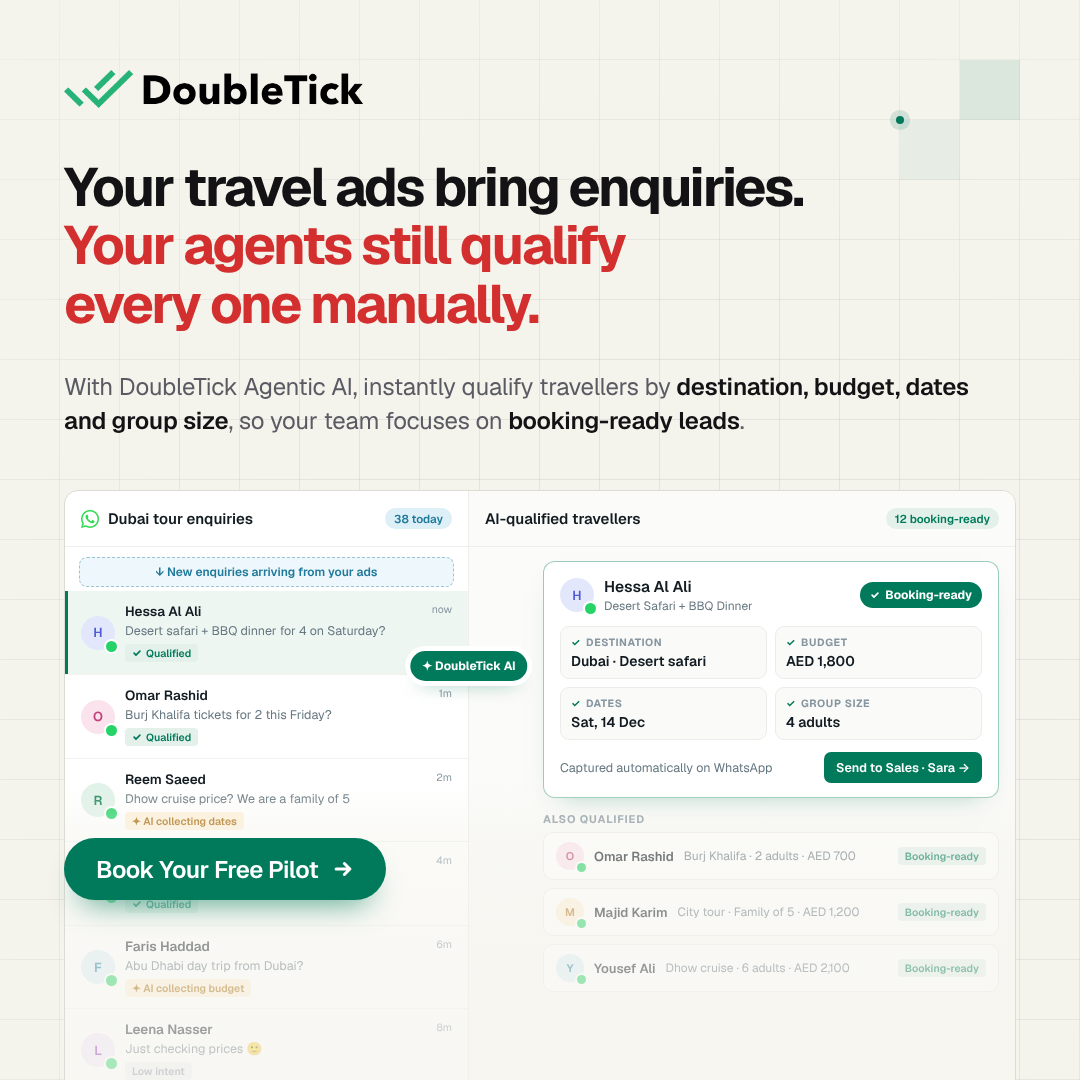
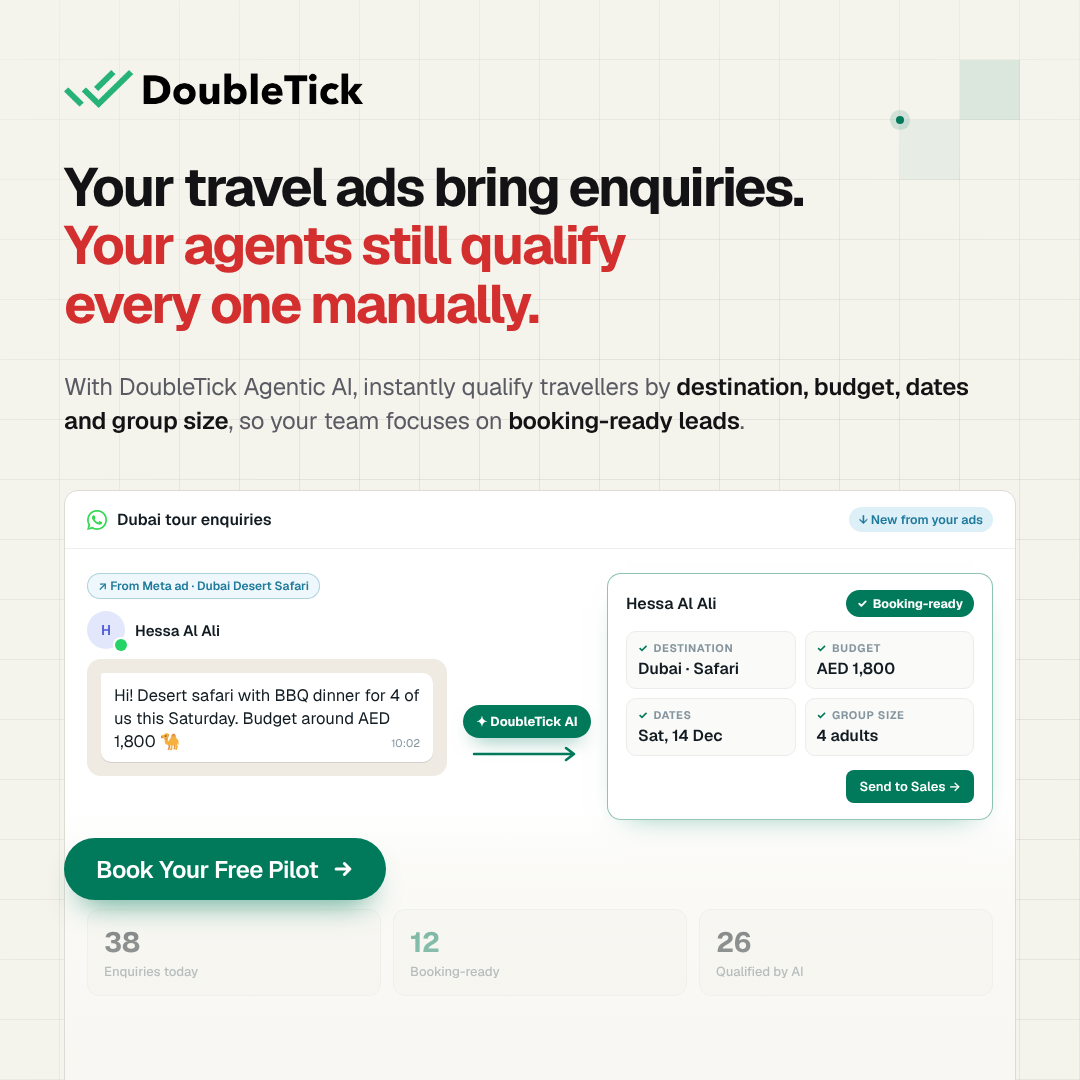
feat(ads): simplify AI qualification visual to one enquiry -> AI -> qualified card
Claude-Session: https://claude.ai/code/session_01U68wzeZAut9FRgfZMxNXRM

diff --git a/ads/doubletick-ai-qualify/index.html b/ads/doubletick-ai-qualify/index.html
@@ -23,44 +23,35 @@
   .sub { position: absolute; top: 370px; left: 64px; width: 930px; font-size: 24px; line-height: 1.4; color: var(--ink-2); letter-spacing: -0.01em; }
   .sub b { color: var(--ink); font-weight: 600; }
 
-  /* AI qualification board */
+  /* AI qualification: one enquiry -> AI -> one qualified card */
   #aq { z-index: 1; left: 64px; top: 490px; width: 952px; height: 620px; border-radius: 14px; background: #fff; border: 1px solid #DCDBD4; overflow: hidden; color: #111B21; }
-  #aq::after { content: ""; position: absolute; inset: 0; pointer-events: none; background: linear-gradient(to bottom, rgba(244,243,236,0) 0%, rgba(244,243,236,0) 47%, rgba(244,243,236,0.4) 55%, rgba(244,243,236,0.55) 70%, rgba(244,243,236,0.66) 100%); }
-  .pane { position: absolute; top: 0; bottom: 0; }
-  #inq { left: 0; width: 404px; border-right: 1px solid #EEEEEA; }
-  #qual { left: 404px; right: 0; background: #FBFBF9; }
-  .ph { height: 56px; display: flex; align-items: center; gap: 9px; padding: 0 16px; border-bottom: 1px solid #EEEEEA; font-size: 15px; font-weight: 600; }
-  .ph .cnt { margin-left: auto; font-size: 11.5px; font-weight: 600; padding: 3px 9px; border-radius: 999px; background: #E3F1EA; color: var(--green); }
-  .ph .cnt.b { background: #DDEFF7; color: #1F7A9C; }
-  .newin { margin: 10px 14px 4px; display: flex; align-items: center; justify-content: center; gap: 6px; font-size: 12px; font-weight: 600; color: #1F7A9C; background: #EEF7FB; border: 1px dashed rgba(31,122,156,0.4); border-radius: 8px; padding: 6px; }
-  .er { display: flex; gap: 10px; padding: 11px 16px; border-bottom: 1px solid #F2F2EF; align-items: center; }
-  .er.sel { background: #EEF6F2; box-shadow: inset 3px 0 0 var(--green); }
-  .av { position: relative; width: 34px; height: 34px; border-radius: 50%; display: grid; place-items: center; font-size: 13px; font-weight: 600; flex: none; }
-  .av::after { content: ""; position: absolute; right: -2px; bottom: -2px; width: 11px; height: 11px; border-radius: 50%; background: #25D366; box-shadow: 0 0 0 2px #fff; }
-  .er .b { flex: 1; min-width: 0; }
-  .er .n { display: flex; justify-content: space-between; font-size: 13.5px; font-weight: 600; } .er .n span:last-child { font-size: 10.5px; font-weight: 400; color: #8696A0; }
-  .er .m { margin-top: 2px; font-size: 12.5px; color: #667781; white-space: nowrap; overflow: hidden; text-overflow: ellipsis; }
-  .st { display: inline-flex; align-items: center; gap: 4px; margin-top: 5px; font-size: 10.5px; font-weight: 600; padding: 2px 7px; border-radius: 4px; }
-  .st.g { background: #E3F1EA; color: var(--green); } .st.a { background: #FFF1DA; color: #A86A0C; } .st.x { background: #F0F2F5; color: #8696A0; }
-  .aipill { position: absolute; left: 404px; top: 160px; transform: translateX(-50%); z-index: 3; display: inline-flex; align-items: center; gap: 6px; font-size: 12px; font-weight: 700; color: #fff; background: var(--green); padding: 7px 12px; border-radius: 999px; box-shadow: 0 0 0 5px #fff, 0 10px 20px -10px rgba(0,122,90,0.6); white-space: nowrap; }
-  .lead { margin: 14px 16px 0 74px; background: #fff; border: 1.5px solid rgba(0,122,90,0.4); border-radius: 12px; padding: 14px 16px; box-shadow: 0 12px 26px -18px rgba(0,122,90,0.5); }
-  .lead .lt { display: flex; align-items: center; gap: 10px; }
-  .lead .lt b { font-size: 15.5px; font-weight: 600; } .lead .lt small { display: block; font-size: 12px; color: #667781; margin-top: 1px; }
-  .badge { margin-left: auto; display: inline-flex; align-items: center; gap: 5px; font-size: 12px; font-weight: 700; color: #fff; background: var(--green); padding: 5px 10px; border-radius: 999px; }
-  .fields { margin-top: 12px; display: grid; grid-template-columns: 1fr 1fr; gap: 8px; }
-  .f { border: 1px solid #ECEDEA; background: #FAFAF8; border-radius: 9px; padding: 8px 10px; }
-  .f small { display: flex; align-items: center; gap: 5px; font-size: 10.5px; font-weight: 700; letter-spacing: 0.06em; color: #8696A0; }
-  .f b { display: block; margin-top: 3px; font-size: 14px; font-weight: 600; }
+  #aq::after { content: ""; position: absolute; inset: 0; pointer-events: none; background: linear-gradient(to bottom, rgba(244,243,236,0) 0%, rgba(244,243,236,0) 52%, rgba(244,243,236,0.4) 60%, rgba(244,243,236,0.55) 74%, rgba(244,243,236,0.66) 100%); }
+  .ph { height: 58px; display: flex; align-items: center; gap: 10px; padding: 0 22px; border-bottom: 1px solid #EEEEEA; font-size: 16px; font-weight: 600; }
+  .ph .cnt { margin-left: auto; font-size: 12.5px; font-weight: 600; padding: 4px 10px; border-radius: 999px; background: #DDEFF7; color: #1F7A9C; }
+  .chat { position: absolute; left: 22px; top: 82px; width: 360px; }
+  .src { display: inline-flex; align-items: center; gap: 6px; font-size: 12px; font-weight: 600; color: #1F7A9C; background: #EEF7FB; border: 1px solid rgba(31,122,156,0.3); padding: 4px 10px; border-radius: 999px; margin-bottom: 12px; }
+  .cust { display: flex; align-items: center; gap: 10px; margin-bottom: 10px; font-size: 15px; font-weight: 600; }
+  .av { position: relative; width: 38px; height: 38px; border-radius: 50%; display: grid; place-items: center; font-size: 14px; font-weight: 600; flex: none; background: #E3E7FB; color: #4F5BD5; }
+  .av::after { content: ""; position: absolute; right: -2px; bottom: -2px; width: 12px; height: 12px; border-radius: 50%; background: #25D366; box-shadow: 0 0 0 2px #fff; }
+  .bub { background: #EFEAE2; border-radius: 14px; padding: 14px; }
+  .msg { background: #fff; border-radius: 10px; border-top-left-radius: 2px; padding: 11px 13px 9px; font-size: 16.5px; line-height: 1.4; box-shadow: 0 1px 0.5px rgba(11,20,26,0.12); }
+  .msg .tm { float: right; margin: 6px 0 -3px 10px; font-size: 11px; color: #8696A0; }
+  .arrow { position: absolute; left: 396px; top: 214px; width: 132px; display: flex; flex-direction: column; align-items: center; gap: 8px; }
+  .arrow .pill { display: inline-flex; align-items: center; gap: 6px; font-size: 13px; font-weight: 700; color: #fff; background: var(--green); padding: 8px 13px; border-radius: 999px; white-space: nowrap; box-shadow: 0 10px 20px -10px rgba(0,122,90,0.6); }
+  .arrow svg { display: block; }
+  .lead { position: absolute; left: 542px; right: 22px; top: 82px; background: #fff; border: 1.5px solid rgba(0,122,90,0.45); border-radius: 14px; padding: 16px 18px; box-shadow: 0 14px 30px -20px rgba(0,122,90,0.55); }
+  .lead .lt { display: flex; align-items: center; gap: 10px; font-size: 16px; font-weight: 600; }
+  .badge { margin-left: auto; display: inline-flex; align-items: center; gap: 5px; font-size: 12.5px; font-weight: 700; color: #fff; background: var(--green); padding: 5px 11px; border-radius: 999px; }
+  .fields { margin-top: 14px; display: grid; grid-template-columns: 1fr 1fr; gap: 9px; }
+  .f { border: 1px solid #ECEDEA; background: #FAFAF8; border-radius: 10px; padding: 9px 11px; }
+  .f small { display: flex; align-items: center; gap: 5px; font-size: 11px; font-weight: 700; letter-spacing: 0.06em; color: #8696A0; }
   .f small i { font-style: normal; color: var(--green); }
-  .lead .as { margin-top: 12px; display: flex; align-items: center; justify-content: space-between; font-size: 12.5px; color: #667781; }
-  .lead .as span.btn2 { font-size: 12.5px; font-weight: 600; color: #fff; background: var(--green); padding: 7px 12px; border-radius: 7px; }
-  .ql { margin: 14px 16px 0 74px; }
-  .ql .h { font-size: 11px; font-weight: 700; letter-spacing: 0.08em; color: #8696A0; margin-bottom: 6px; }
-  .qr { display: flex; align-items: center; gap: 10px; background: #fff; border: 1px solid #ECEDEA; border-radius: 10px; padding: 9px 12px; margin-bottom: 8px; font-size: 13px; }
-  .qr .av { width: 28px; height: 28px; font-size: 11px; } .qr .av::after { width: 9px; height: 9px; }
-  .qr b { font-weight: 600; } .qr small { color: #667781; font-size: 12px; }
-  .qr .st { margin: 0 0 0 auto; }
-  .a1 { background: #E3E7FB; color: #4F5BD5; } .a2 { background: #FBE3EE; color: #C2407A; } .a3 { background: #E0F2E9; color: #1E8A5A; } .a4 { background: #FFF0D9; color: #B7791F; } .a5 { background: #F1E6FB; color: #8A2BC4; } .a6 { background: #DDEFF7; color: #1F7A9C; }
+  .f b { display: block; margin-top: 3px; font-size: 16px; font-weight: 600; }
+  .lead .go { margin-top: 14px; display: flex; justify-content: flex-end; }
+  .lead .go span { font-size: 13px; font-weight: 600; color: #fff; background: var(--green); padding: 8px 13px; border-radius: 8px; }
+  .stats { position: absolute; left: 22px; right: 22px; top: 418px; display: grid; grid-template-columns: repeat(3, 1fr); gap: 12px; }
+  .stats div { border: 1px solid #ECEDEA; border-radius: 12px; padding: 14px 16px; background: #FAFAF8; }
+  .stats b { display: block; font-size: 28px; font-weight: 700; letter-spacing: -0.02em; } .stats small { font-size: 13px; color: #667781; font-weight: 500; }
   .footer { position: absolute; left: 64px; bottom: 180px; z-index: 10; }
   .cta { display: inline-flex; align-items: center; gap: 14px; padding: 0 32px; height: 62px; border-radius: 999px; background: var(--green); color: #fff; font-weight: 600; font-size: 24px; letter-spacing: -0.02em; box-shadow: 0 18px 30px -16px rgba(0,122,90,0.7); }
   .headline br + .red { display: block; text-wrap: balance; }
@@ -80,21 +71,19 @@
 
   <!-- DoubleTick inbox: Sales, Operations and Support on one thread -->
   <div id="aq" class="abs">
-    <div class="pane" id="inq"><div class="ph"><img src="whatsapp-logo.png" alt="" style="width:18px;height:18px" />Dubai tour enquiries<span class="cnt b">38 today</span></div>
-      <div class="newin">↓ New enquiries arriving from your ads</div><div class="er sel"><span class="av a1">H</span><div class="b"><div class="n"><span>Hessa Al Ali</span><span>now</span></div><div class="m">Desert safari + BBQ dinner for 4 on Saturday?</div><span class="st g"><svg width="10" height="10" viewBox="0 0 24 24" fill="none" stroke="currentColor" stroke-width="4" stroke-linecap="round" stroke-linejoin="round"><path d="M5 12.5l4.5 4.5L19 7.5"/></svg> Qualified</span></div></div><div class="er"><span class="av a2">O</span><div class="b"><div class="n"><span>Omar Rashid</span><span>1m</span></div><div class="m">Burj Khalifa tickets for 2 this Friday?</div><span class="st g"><svg width="10" height="10" viewBox="0 0 24 24" fill="none" stroke="currentColor" stroke-width="4" stroke-linecap="round" stroke-linejoin="round"><path d="M5 12.5l4.5 4.5L19 7.5"/></svg> Qualified</span></div></div><div class="er"><span class="av a3">R</span><div class="b"><div class="n"><span>Reem Saeed</span><span>2m</span></div><div class="m">Dhow cruise price? We are a family of 5</div><span class="st a">✦ AI collecting dates</span></div></div><div class="er"><span class="av a4">M</span><div class="b"><div class="n"><span>Majid Karim</span><span>4m</span></div><div class="m">Dubai city tour with kids next week?</div><span class="st g"><svg width="10" height="10" viewBox="0 0 24 24" fill="none" stroke="currentColor" stroke-width="4" stroke-linecap="round" stroke-linejoin="round"><path d="M5 12.5l4.5 4.5L19 7.5"/></svg> Qualified</span></div></div><div class="er"><span class="av a6">F</span><div class="b"><div class="n"><span>Faris Haddad</span><span>6m</span></div><div class="m">Abu Dhabi day trip from Dubai?</div><span class="st a">✦ AI collecting budget</span></div></div><div class="er"><span class="av a5">L</span><div class="b"><div class="n"><span>Leena Nasser</span><span>8m</span></div><div class="m">Just checking prices 🙂</div><span class="st x">Low intent</span></div></div></div>
-    <span class="aipill">✦ DoubleTick AI</span>
-    <div class="pane" id="qual"><div class="ph">AI-qualified travellers<span class="cnt">12 booking-ready</span></div>
-      <div class="lead">
-        <div class="lt"><span class="av a1">H</span><div><b>Hessa Al Ali</b><small>Desert Safari + BBQ Dinner</small></div><span class="badge"><svg width="10" height="10" viewBox="0 0 24 24" fill="none" stroke="currentColor" stroke-width="4" stroke-linecap="round" stroke-linejoin="round"><path d="M5 12.5l4.5 4.5L19 7.5"/></svg> Booking-ready</span></div>
-        <div class="fields"><div class="f"><small><i>✓</i>DESTINATION</small><b>Dubai · Desert safari</b></div><div class="f"><small><i>✓</i>BUDGET</small><b>AED 1,800</b></div><div class="f"><small><i>✓</i>DATES</small><b>Sat, 14 Dec</b></div><div class="f"><small><i>✓</i>GROUP SIZE</small><b>4 adults</b></div></div>
-        <div class="as"><span>Captured automatically on WhatsApp</span><span class="btn2">Send to Sales · Sara →</span></div>
-      </div>
-      <div class="ql"><div class="h">ALSO QUALIFIED</div>
-        <div class="qr"><span class="av a2">O</span><b>Omar Rashid</b><small>Burj Khalifa · 2 adults · AED 700</small><span class="st g">Booking-ready</span></div>
-        <div class="qr"><span class="av a4">M</span><b>Majid Karim</b><small>City tour · Family of 5 · AED 1,200</small><span class="st g">Booking-ready</span></div>
-        <div class="qr"><span class="av a6">Y</span><b>Yousef Ali</b><small>Dhow cruise · 6 adults · AED 2,100</small><span class="st g">Booking-ready</span></div>
-      </div>
+    <div class="ph"><img src="whatsapp-logo.png" alt="" style="width:20px;height:20px" />Dubai tour enquiries<span class="cnt">↓ New from your ads</span></div>
+    <div class="chat">
+      <span class="src">↗ From Meta ad · Dubai Desert Safari</span>
+      <div class="cust"><span class="av">H</span>Hessa Al Ali</div>
+      <div class="bub"><div class="msg">Hi! Desert safari with BBQ dinner for 4 of us this Saturday. Budget around AED 1,800 🐪<span class="tm">10:02</span></div></div>
     </div>
+    <div class="arrow"><span class="pill">✦ DoubleTick AI</span><svg width="110" height="16" viewBox="0 0 110 16" fill="none"><path d="M2 8h100M94 2l8 6-8 6" stroke="#007A5A" stroke-width="2.5" stroke-linecap="round" stroke-linejoin="round" stroke-dasharray="0"/></svg></div>
+    <div class="lead">
+      <div class="lt">Hessa Al Ali<span class="badge"><svg width="11" height="11" viewBox="0 0 24 24" fill="none" stroke="currentColor" stroke-width="4" stroke-linecap="round" stroke-linejoin="round"><path d="M5 12.5l4.5 4.5L19 7.5"/></svg> Booking-ready</span></div>
+      <div class="fields"><div class="f"><small><i>✓</i>DESTINATION</small><b>Dubai · Safari</b></div><div class="f"><small><i>✓</i>BUDGET</small><b>AED 1,800</b></div><div class="f"><small><i>✓</i>DATES</small><b>Sat, 14 Dec</b></div><div class="f"><small><i>✓</i>GROUP SIZE</small><b>4 adults</b></div></div>
+      <div class="go"><span>Send to Sales →</span></div>
+    </div>
+    <div class="stats"><div><b>38</b><small>Enquiries today</small></div><div><b style="color:#007A5A">12</b><small>Booking-ready</small></div><div><b>26</b><small>Qualified by AI</small></div></div>
   </div>
 
   <div class="footer"><div class="cta">Book Your Free Pilot <svg width="22" height="22" viewBox="0 0 16 16" fill="none"><path d="M3 8h10M9 4l4 4-4 4" stroke="#fff" stroke-width="2.2" stroke-linecap="round" stroke-linejoin="round"/></svg></div></div>
